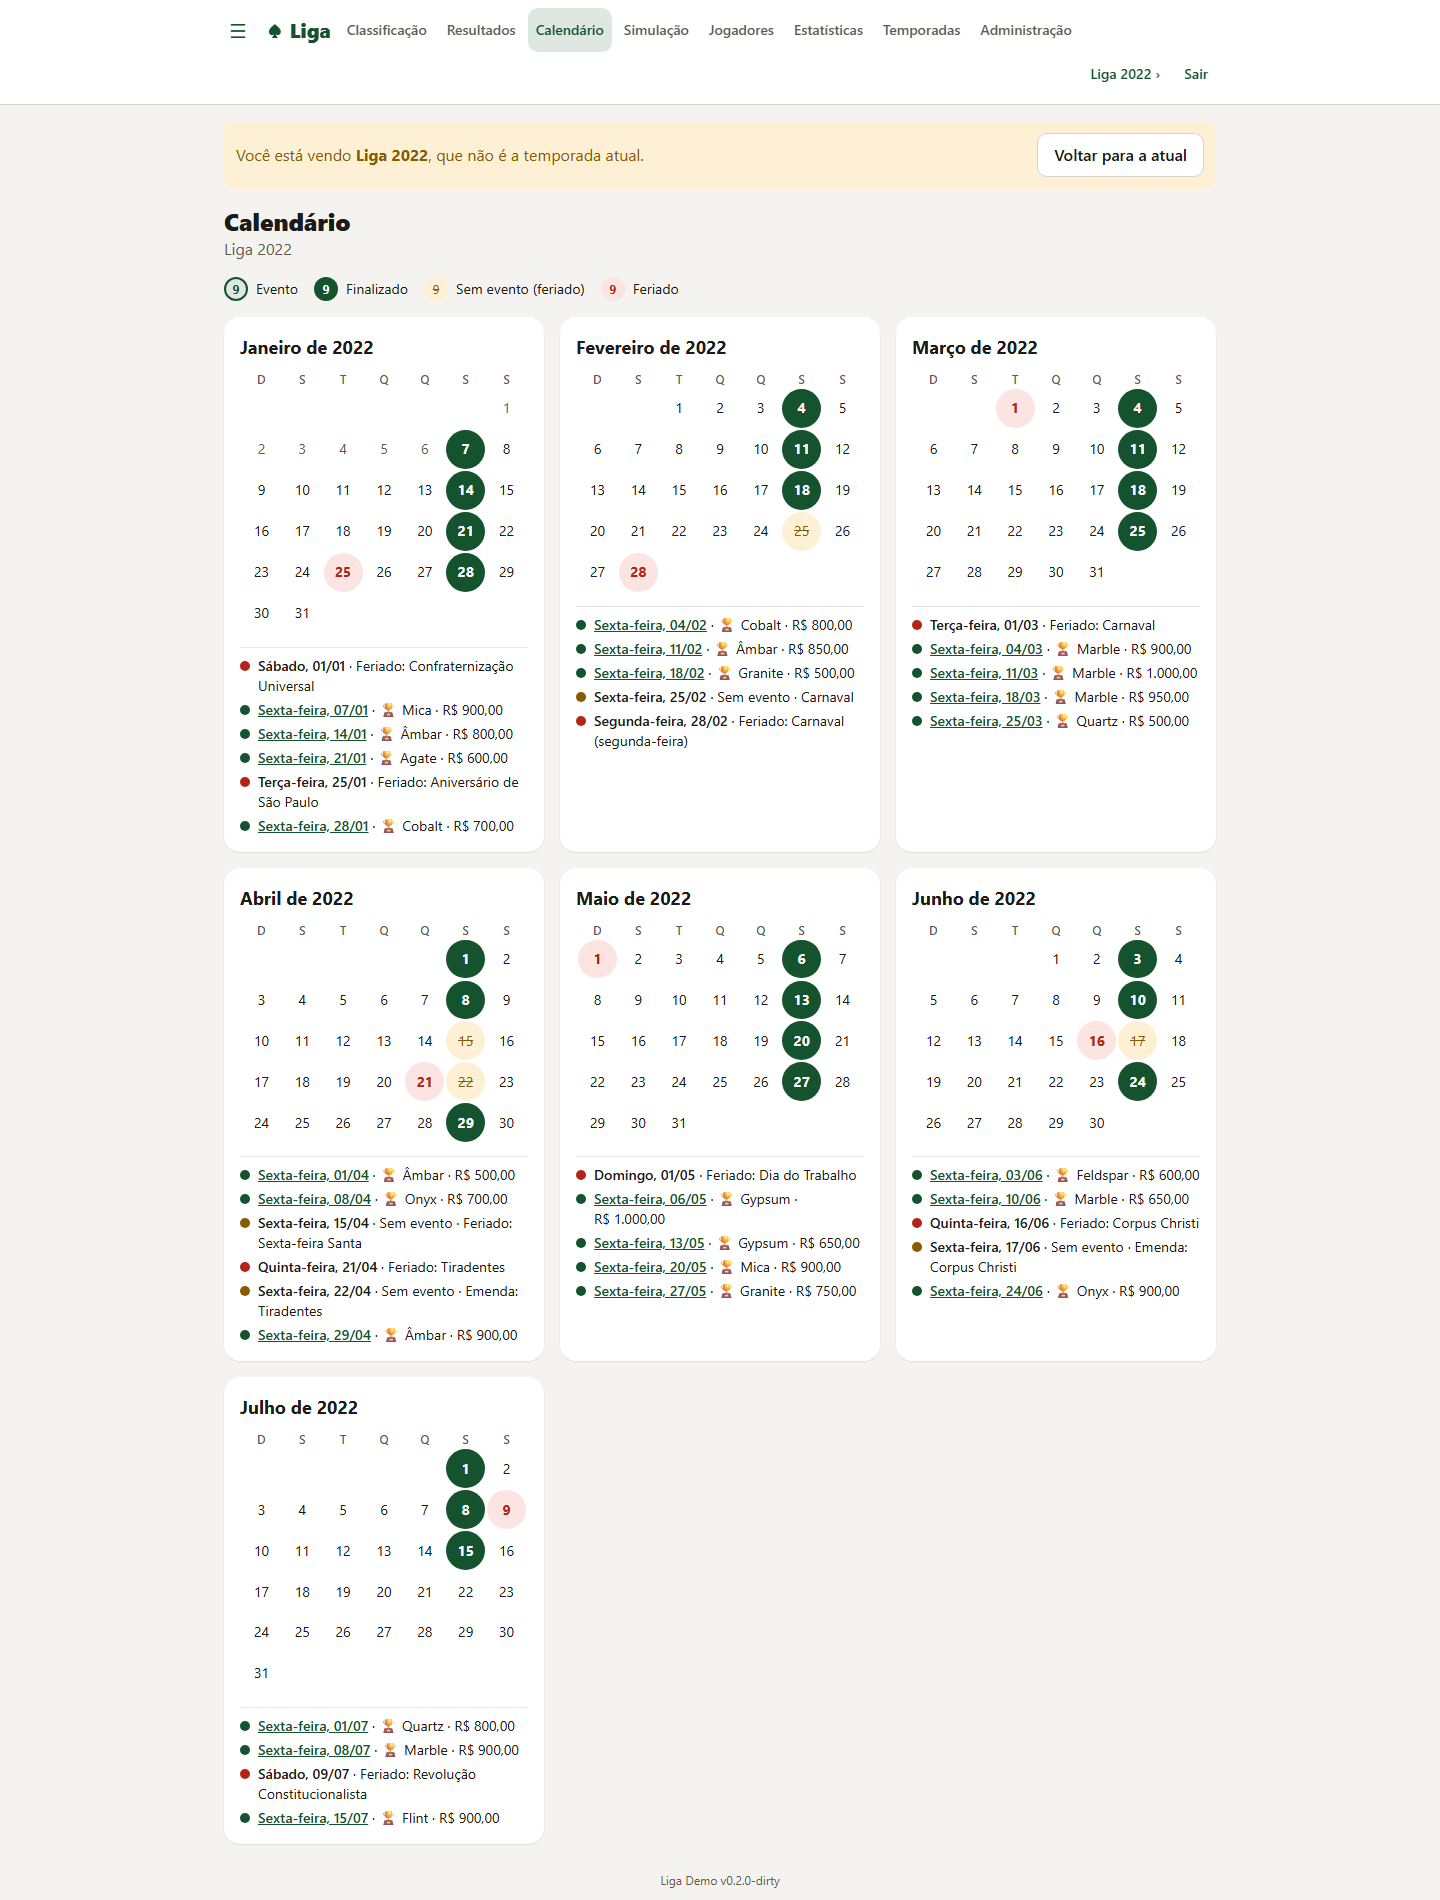
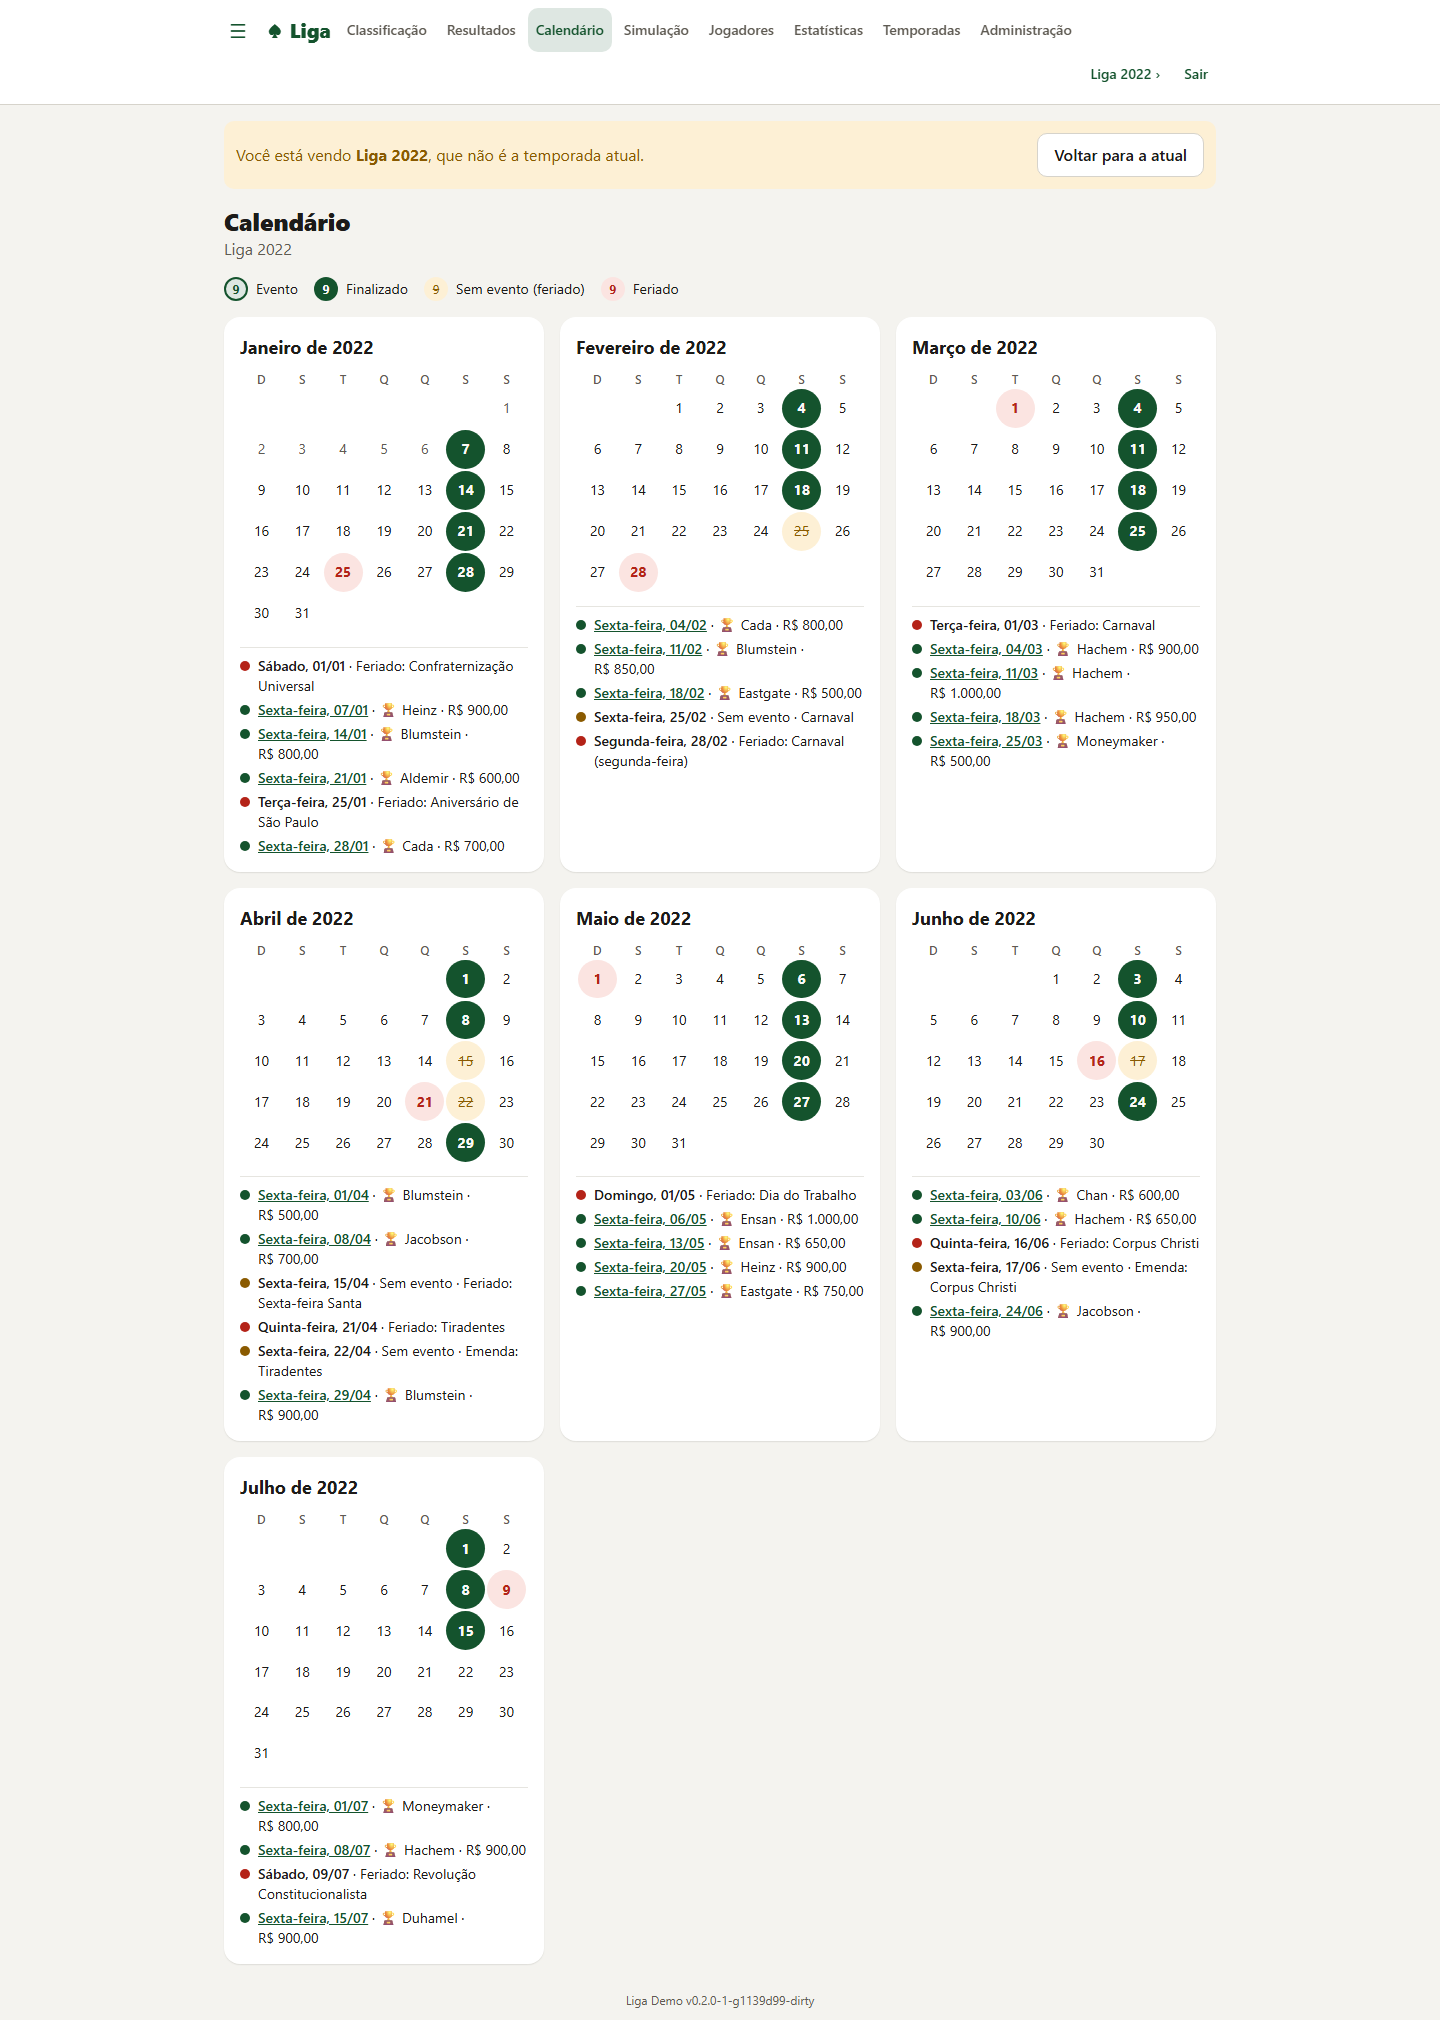
Name the demo league's players after WSOP Main Event champions
The demo players were named after minerals. They are now champions of
the World Series of Poker Main Event: names anyone who plays knows, and
that cannot be taken for a member of a real league. Only the names are
real; the results stay invented and the pictures drawn. The one memo
states a public fact.

The screenshots are taken again with these names, and AGENTS.md says
what may be written about the demo players.

Claude-Session: https://claude.ai/code/session_01RKChPseXcNTded3Rq8XkJY

diff --git a/frontend/tests/partial-result.spec.ts b/frontend/tests/partial-result.spec.ts
@@ -29,11 +29,11 @@ test('a player fills the partial result of an open night, and the keeper finishe
   await expect(page.getByRole('heading', { name: 'Resultado parcial', level: 1 })).toBeVisible()
   await page.getByLabel('Pote (R$)').fill('500')
   await page.getByRole('button', { name: /^5º lugar/ }).click()
-  await page.getByRole('dialog').getByRole('searchbox').fill('Onyx')
-  await page.getByRole('dialog').getByRole('option', { name: 'Onyx', exact: true }).click()
+  await page.getByRole('dialog').getByRole('searchbox').fill('Jacobson')
+  await page.getByRole('dialog').getByRole('option', { name: 'Jacobson', exact: true }).click()
   await page.getByRole('button', { name: /^6º lugar/ }).click()
-  await page.getByRole('dialog').getByRole('searchbox').fill('Flint')
-  await page.getByRole('dialog').getByRole('option', { name: 'Flint', exact: true }).click()
+  await page.getByRole('dialog').getByRole('searchbox').fill('Duhamel')
+  await page.getByRole('dialog').getByRole('option', { name: 'Duhamel', exact: true }).click()
   await expect(page.getByLabel('Pontos do 6º lugar')).toHaveText('25,00')
   await page.getByRole('button', { name: 'Salvar resultado parcial' }).click()
   await expect(page.getByText(/^Salvo às \d\d:\d\d\.$/)).toBeVisible()
@@ -51,7 +51,7 @@ test('a player fills the partial result of an open night, and the keeper finishe
   const card = page.locator('section', { has: page.getByRole('heading', { name: 'Resultado parcial' }) })
   // …with the points each position would earn from the pot
   await expect(card.getByRole('listitem').nth(4)).toHaveText('5º—40,00')
-  await expect(card.getByRole('listitem').nth(5)).toContainText('Flint')
+  await expect(card.getByRole('listitem').nth(5)).toContainText('Duhamel')
   await expect(card.getByRole('listitem').nth(5)).toContainText('25,00')
   await expect(card.getByRole('definition').first()).toHaveText('R$ 500,00')
   await expect(card.getByText(/Salvo por .+ às \d\d:\d\d/)).toBeVisible()
@@ -64,7 +64,7 @@ test('a player fills the partial result of an open night, and the keeper finishe
   await page.getByRole('link', { name: /Finalizar/ }).click()
   await expect(page.getByText(/Preenchido com o resultado parcial salvo por .+ às \d\d:\d\d/)).toBeVisible()
   await expect(page.getByLabel('Pote (R$)')).toHaveValue('500,00')
-  await expect(page.getByRole('button', { name: /^6º lugar/ })).toContainText('Flint')
+  await expect(page.getByRole('button', { name: /^6º lugar/ })).toContainText('Duhamel')
   await expect(page.getByRole('button', { name: 'Finalizar evento' })).toBeDisabled()
   await expectAccessible(page)
 
@@ -78,5 +78,5 @@ test('a player fills the partial result of an open night, and the keeper finishe
   await page.getByRole('button', { name: 'Finalizar evento' }).click()
   await expect(page.getByText('Finalizado', { exact: true })).toBeVisible()
   await expect(page.getByRole('heading', { name: 'Resultado parcial' })).toHaveCount(0)
-  await expect(page.getByRole('article').getByRole('listitem').nth(5)).toContainText('Flint')
+  await expect(page.getByRole('article').getByRole('listitem').nth(5)).toContainText('Duhamel')
 })

diff --git a/frontend/tests/player.spec.ts b/frontend/tests/player.spec.ts
@@ -83,22 +83,22 @@ test('the simulator shows who would move up, without saving', async ({ page }) =
 test('the players list shows thumbnails, and a thumbnail opens the larger photo', async ({ page }) => {
   await login(page, 'dev-player')
   await page.goto('players')
-  const quartz = page.getByRole('listitem').filter({ has: page.getByText('Quartz', { exact: true }) })
+  const moneymaker = page.getByRole('listitem').filter({ has: page.getByText('Moneymaker', { exact: true }) })
   // The images load when they come near the screen.
-  await quartz.scrollIntoViewIfNeeded()
+  await moneymaker.scrollIntoViewIfNeeded()
   // The sizes the server makes: thumbnails of 180 x 240 pixels, photos of 600 x 800.
-  await expect(quartz.locator('img')).toHaveJSProperty('naturalWidth', 180)
+  await expect(moneymaker.locator('img')).toHaveJSProperty('naturalWidth', 180)
   await expectAccessible(page)
 
-  await quartz.getByRole('button', { name: 'Ver foto de Quartz' }).click()
-  await expect(page.getByRole('dialog').getByRole('img', { name: 'Foto de Quartz' })).toHaveJSProperty('naturalWidth', 600)
+  await moneymaker.getByRole('button', { name: 'Ver foto de Moneymaker' }).click()
+  await expect(page.getByRole('dialog').getByRole('img', { name: 'Foto de Moneymaker' })).toHaveJSProperty('naturalWidth', 600)
   await expectAccessible(page)
   await page.getByRole('button', { name: 'Fechar' }).click()
   await expect(page.getByRole('dialog')).toHaveCount(0)
 
   // A player with no image shows the first letter of the nickname, and nothing to open.
-  const mica = page.getByRole('listitem').filter({ has: page.getByText('Mica', { exact: true }) })
-  await expect(mica).toContainText(/^M/)
-  await expect(mica.locator('img')).toHaveCount(0)
-  await expect(mica.getByRole('button')).toHaveCount(0)
+  const heinz = page.getByRole('listitem').filter({ has: page.getByText('Heinz', { exact: true }) })
+  await expect(heinz).toContainText(/^H/)
+  await expect(heinz.locator('img')).toHaveCount(0)
+  await expect(heinz.getByRole('button')).toHaveCount(0)
 })

diff --git a/frontend/tests/profile.spec.ts b/frontend/tests/profile.spec.ts
@@ -12,7 +12,7 @@ test('a player edits their own details and photos in "Meu perfil"', async ({ pag
   const nickname = await page.getByLabel('Apelido').inputValue()
 
   // A nickname in use is refused; typing another one and saving again works.
-  await page.getByLabel('Apelido').fill('Mica')
+  await page.getByLabel('Apelido').fill('Heinz')
   await page.getByRole('button', { name: 'Salvar' }).click()
   await expect(page.getByText('Já existe um jogador com este apelido.')).toBeVisible()
   await page.getByLabel('Apelido').fill(nickname)
@@ -57,11 +57,11 @@ test('a player edits their own details and photos in "Meu perfil"', async ({ pag
 test('an admin sends and removes a player\'s photo in "Administração"', async ({ page }) => {
   await login(page, 'dev-admin')
   await page.goto('admin/players')
-  await page.getByRole('button', { name: 'Editar Mica' }).click()
+  await page.getByRole('button', { name: 'Editar Heinz' }).click()
   await expect(page.getByRole('heading', { name: 'Foto', exact: true })).toBeVisible()
 
   await page.locator('input[type=file]').setInputFiles(picture)
-  await expect(page.getByRole('img', { name: 'Foto de Mica', exact: true })).toHaveJSProperty('naturalWidth', 600)
+  await expect(page.getByRole('img', { name: 'Foto de Heinz', exact: true })).toHaveJSProperty('naturalWidth', 600)
   await expectAccessible(page)
 
   await page.getByRole('button', { name: 'Remover foto', exact: true }).click()

diff --git a/frontend/tests/results-keeper.spec.ts b/frontend/tests/results-keeper.spec.ts
@@ -106,14 +106,14 @@ test('a picked player can be changed', async ({ page }) => {
   await page.goto('simulator')
   const first = page.getByRole('button', { name: /^1º lugar/ })
   await first.click()
-  await page.getByRole('dialog').getByRole('searchbox').fill('Onyx')
-  await page.getByRole('dialog').getByRole('option', { name: 'Onyx', exact: true }).click()
-  await expect(first).toContainText('Onyx')
+  await page.getByRole('dialog').getByRole('searchbox').fill('Jacobson')
+  await page.getByRole('dialog').getByRole('option', { name: 'Jacobson', exact: true }).click()
+  await expect(first).toContainText('Jacobson')
 
   await first.click()
-  await expect(page.getByRole('dialog').getByRole('option', { name: /Onyx.*escolhido/ })).toBeVisible()
-  await page.getByRole('dialog').getByRole('searchbox').fill('Flint')
-  await page.getByRole('dialog').getByRole('option', { name: 'Flint', exact: true }).click()
+  await expect(page.getByRole('dialog').getByRole('option', { name: /Jacobson.*escolhido/ })).toBeVisible()
+  await page.getByRole('dialog').getByRole('searchbox').fill('Duhamel')
+  await page.getByRole('dialog').getByRole('option', { name: 'Duhamel', exact: true }).click()
   await expect(page.getByRole('dialog')).toHaveCount(0)
-  await expect(first).toContainText('Flint')
+  await expect(first).toContainText('Duhamel')
 })

diff --git a/frontend/tests/attendance.spec.ts b/frontend/tests/attendance.spec.ts
@@ -26,11 +26,11 @@ test('answers start when the night is open: players answer ALL IN or FOLD, keepe
   await page.getByRole('alertdialog').getByRole('button', { name: 'Abrir evento' }).click()
   await expect(page.getByText('Aberto', { exact: true })).toBeVisible()
   await page.getByRole('button', { name: /^Responder por outro jogador/ }).click()
-  await page.getByRole('dialog').getByRole('searchbox').fill('Onyx')
-  await page.getByRole('dialog').getByRole('option', { name: 'Onyx', exact: true }).click()
+  await page.getByRole('dialog').getByRole('searchbox').fill('Jacobson')
+  await page.getByRole('dialog').getByRole('option', { name: 'Jacobson', exact: true }).click()
   await page.getByRole('button', { name: 'ALL IN', exact: true }).click()
   const coming = page.getByRole('region', { name: /^Vão jogar/ })
-  await expect(coming.getByRole('listitem')).toHaveText(['Onyx · por Responsável (dev)'])
+  await expect(coming.getByRole('listitem')).toHaveText(['Jacobson · por Responsável (dev)'])
 
   // A player answers for themself, then changes their mind
   await logout(page)

diff --git a/backend/database/seeders/DemoLeagueSeeder.php b/backend/database/seeders/DemoLeagueSeeder.php
@@ -25,31 +25,35 @@ use Random\Randomizer;
  */
 class DemoLeagueSeeder extends Seeder
 {
-    /** Players named after minerals, so that no name can be taken for a real person. */
+    /**
+     * The players are named after champions of the World Series of Poker Main Event: names anyone who plays
+     * knows, and that cannot be taken for a member of a real league. Only their names are real. The results,
+     * the dates and the drawn pictures here are invented.
+     */
     private const PLAYERS = [
-        // nickname, name, email, has a photo
-        ['Agate', 'Agate Demo', 'agate@example.org', true],
-        ['Âmbar', 'Âmbar Demo', null, false],
-        ['Basalt', 'Basalt Demo', 'basalt@example.org', true],
-        ['Cobalt', 'Cobalt', null, true],
-        ['Feldspar', 'Feldspar Demo', null, false],
-        ['Flint', 'Flint Demo', 'flint@example.org', true],
-        ['Granite', null, null, false],
-        ['Gypsum', 'Gypsum Demo', null, true],
-        ['Marble', 'Marble Demo', 'marble@example.org', false],
-        ['Mica', 'Mica Demo', null, false],
-        ['Obsidian', 'Obsidian Demo', null, true],
-        ['Onyx', 'Onyx Demo', 'onyx@example.org', false],
-        ['Pyrite', 'pyrite', null, false],
-        ['Quartz', 'Quartz Demo', 'quartz@example.org', true],
-        ['Slate', 'Slate Demo', null, false],
-        ['Topaz', 'Topaz Demo', null, true],
-        ['Zircon', 'Zircon Demo', null, false],
-        ['Índigo', 'Índigo Demo', null, false],
+        // nickname, name, email, has a picture
+        ['Aldemir', 'Koray Aldemir', 'aldemir@example.org', true],
+        ['Blumstein', 'Scott Blumstein', null, false],
+        ['Brunson', 'Doyle Brunson', 'brunson@example.org', true],
+        ['Cada', 'Cada', null, true],
+        ['Chan', 'Johnny Chan', null, false],
+        ['Duhamel', 'Jonathan Duhamel', 'duhamel@example.org', true],
+        ['Eastgate', null, null, false],
+        ['Ensan', 'Hossein Ensan', null, true],
+        ['Hachem', 'Joe Hachem', 'hachem@example.org', false],
+        ['Heinz', 'Pius Heinz', null, false],
+        ['Hellmuth', 'Phil Hellmuth', null, true],
+        ['Jacobson', 'Martin Jacobson', 'jacobson@example.org', false],
+        ['Merson', 'merson', null, false],
+        ['Moneymaker', 'Chris Moneymaker', 'moneymaker@example.org', true],
+        ['Nguyen', 'Qui Nguyen', null, false],
+        ['Raymer', 'Greg Raymer', null, true],
+        ['Ungar', 'Stu Ungar', null, false],
+        ['Yang', 'Jerry Yang', null, false],
     ];
 
     /** Players who only played the first season and are on a break. */
-    private const INACTIVE = ['Zircon', 'Índigo'];
+    private const INACTIVE = ['Ungar', 'Yang'];
 
     /** Fridays of 2022 with no night: Carnival, Good Friday and the days after Tiradentes and Corpus Christi. */
     private const NO_NIGHT = ['2022-02-25', '2022-04-15', '2022-04-22', '2022-06-17'];
@@ -83,7 +87,7 @@ class DemoLeagueSeeder extends Seeder
 
             // The first player of the list has a login of their own, as most players of a real league do.
             User::query()->create([
-                'username' => 'agate', 'name' => 'Agate', 'password' => 'password', 'role' => Role::Player,
+                'username' => 'aldemir', 'name' => 'Aldemir', 'password' => 'password', 'role' => Role::Player,
                 'is_enabled' => true, 'player_id' => $players[0],
             ]);
 
@@ -102,7 +106,7 @@ class DemoLeagueSeeder extends Seeder
                 'name' => $name,
                 'email' => $email,
                 'birth_date' => sprintf('%d-%02d-%02d', 1970 + $index, 1 + $index % 12, 1 + ($index * 7) % 28),
-                'memo' => $nickname === 'Quartz' ? 'Fundador da liga. Nunca chega atrasado.' : null,
+                'memo' => $nickname === 'Moneymaker' ? 'Campeão do Main Event da WSOP de 2003.' : null,
                 'status' => 'active',
             ]);
             if ($hasPhoto) {

diff --git a/AGENTS.md b/AGENTS.md
@@ -27,9 +27,13 @@ never depend on that: a setting a site needs goes in `site.json` or `backend/con
 ([`docs/architecture/backend-layers.md`](docs/architecture/backend-layers.md), "A package and an app in one
 folder").
 
-Nothing site-specific may be committed here: no real league, host or deploy target, and no real person (not even
-in an example). `php deploy/check-forbidden.php` enforces it, and CI runs it. Worked examples use invented names
-and the invented domains `ligademo.example`, `inventado.example`, `semdominio.example` and `example.com`.
+Nothing site-specific may be committed here: no real league, host or deploy target, and no member of a real
+league (not even in an example). `php deploy/check-forbidden.php` enforces it, and CI runs it. Worked examples
+use invented names and the invented domains `ligademo.example`, `inventado.example`, `semdominio.example` and
+`example.com`.
+
+The demo league's players are named after champions of the World Series of Poker Main Event. The names are
+public; the results are invented. Write nothing about them but public facts.
 
 ## Status
 
